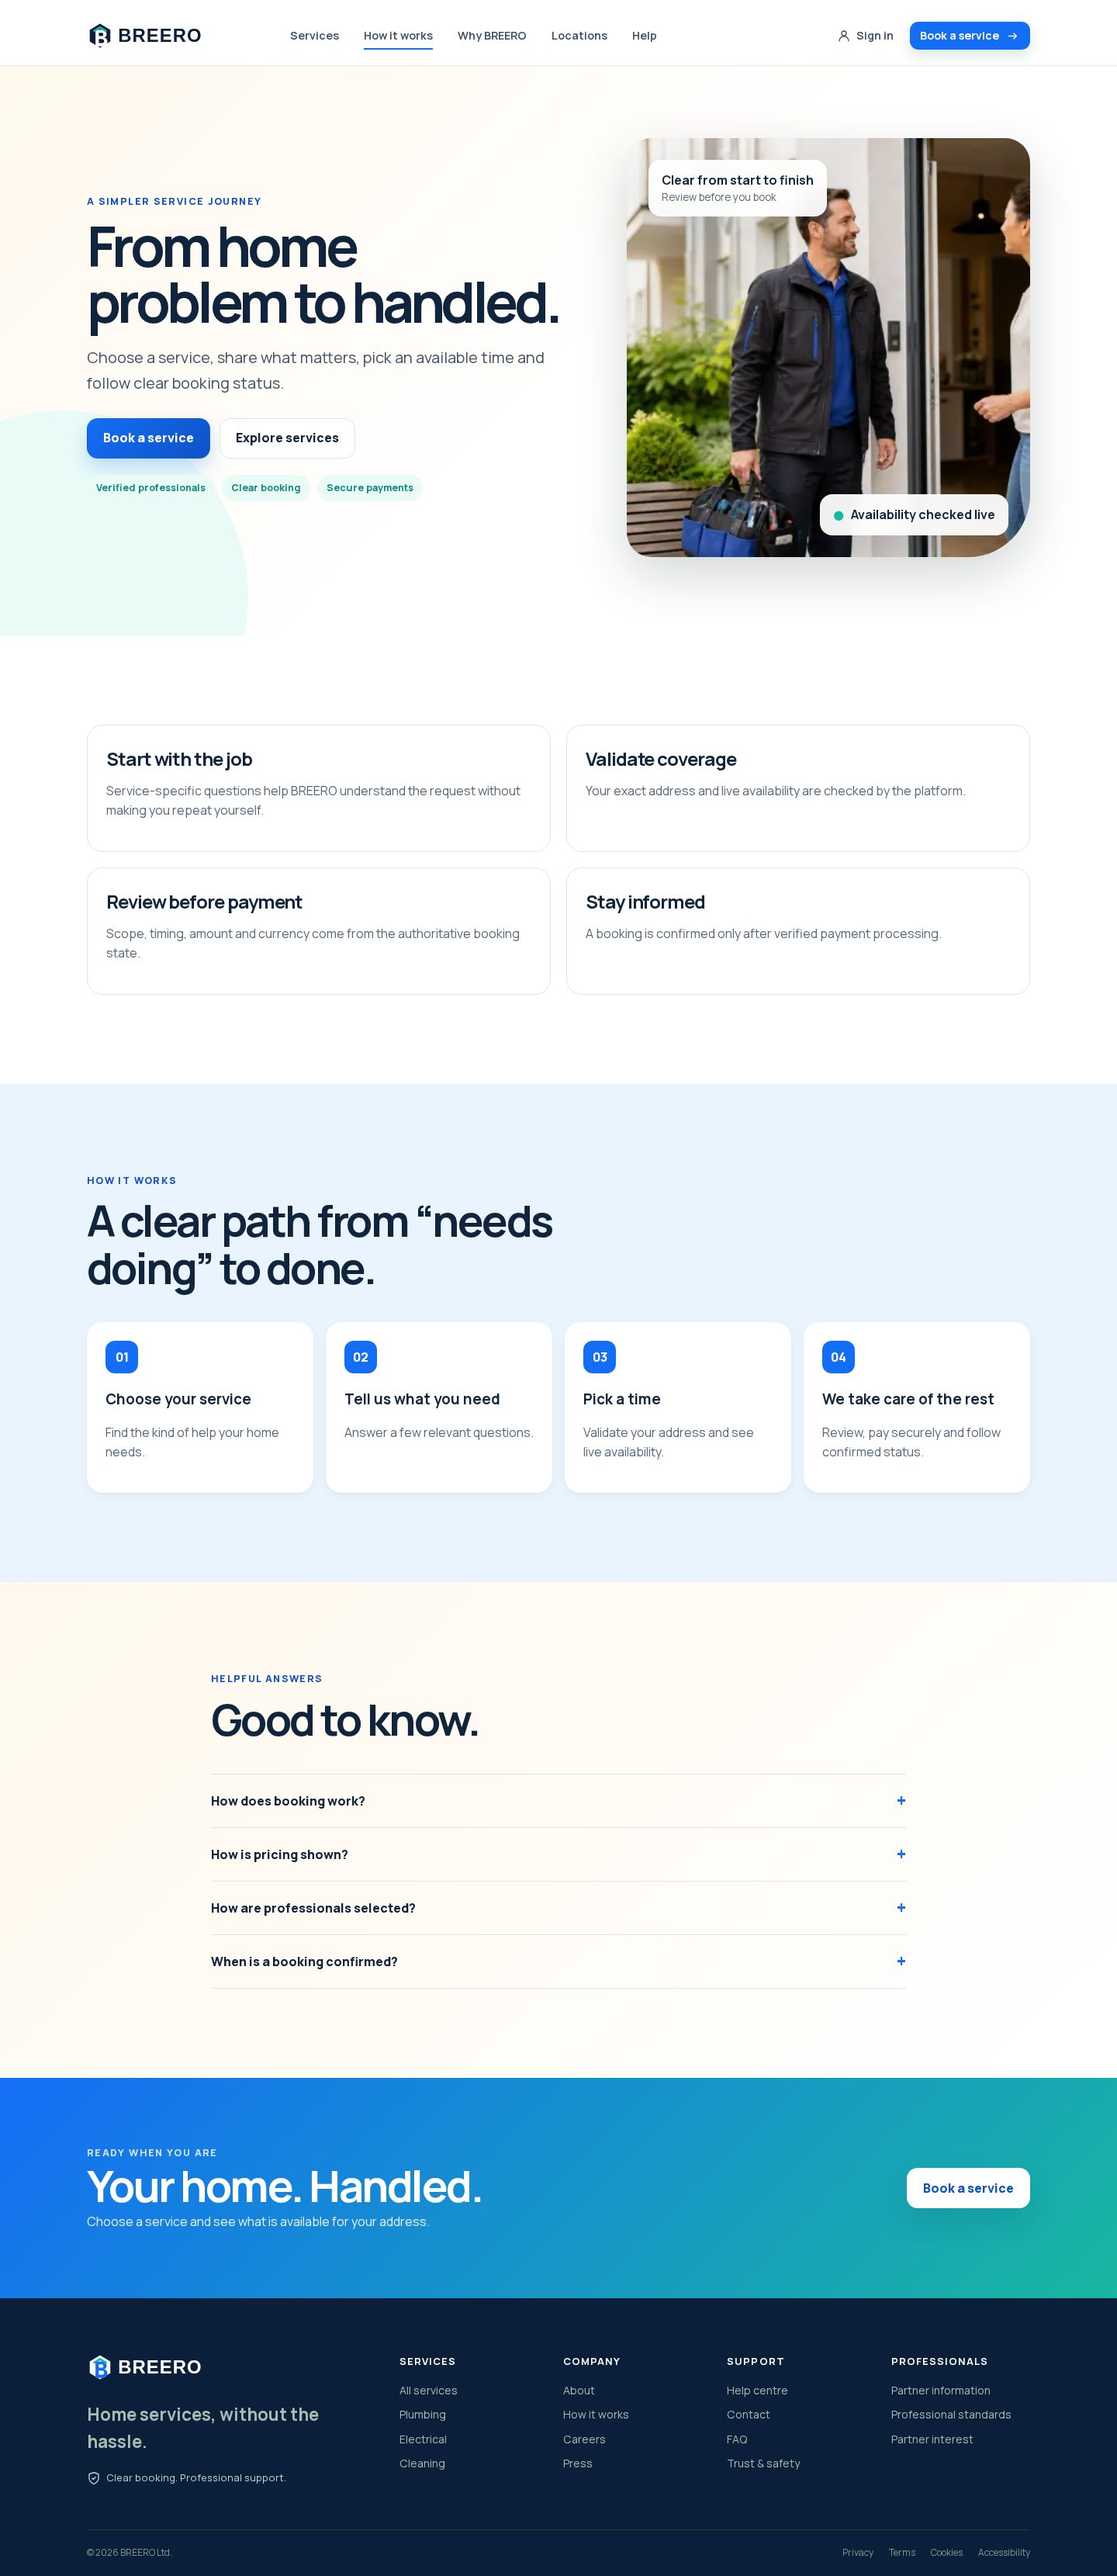
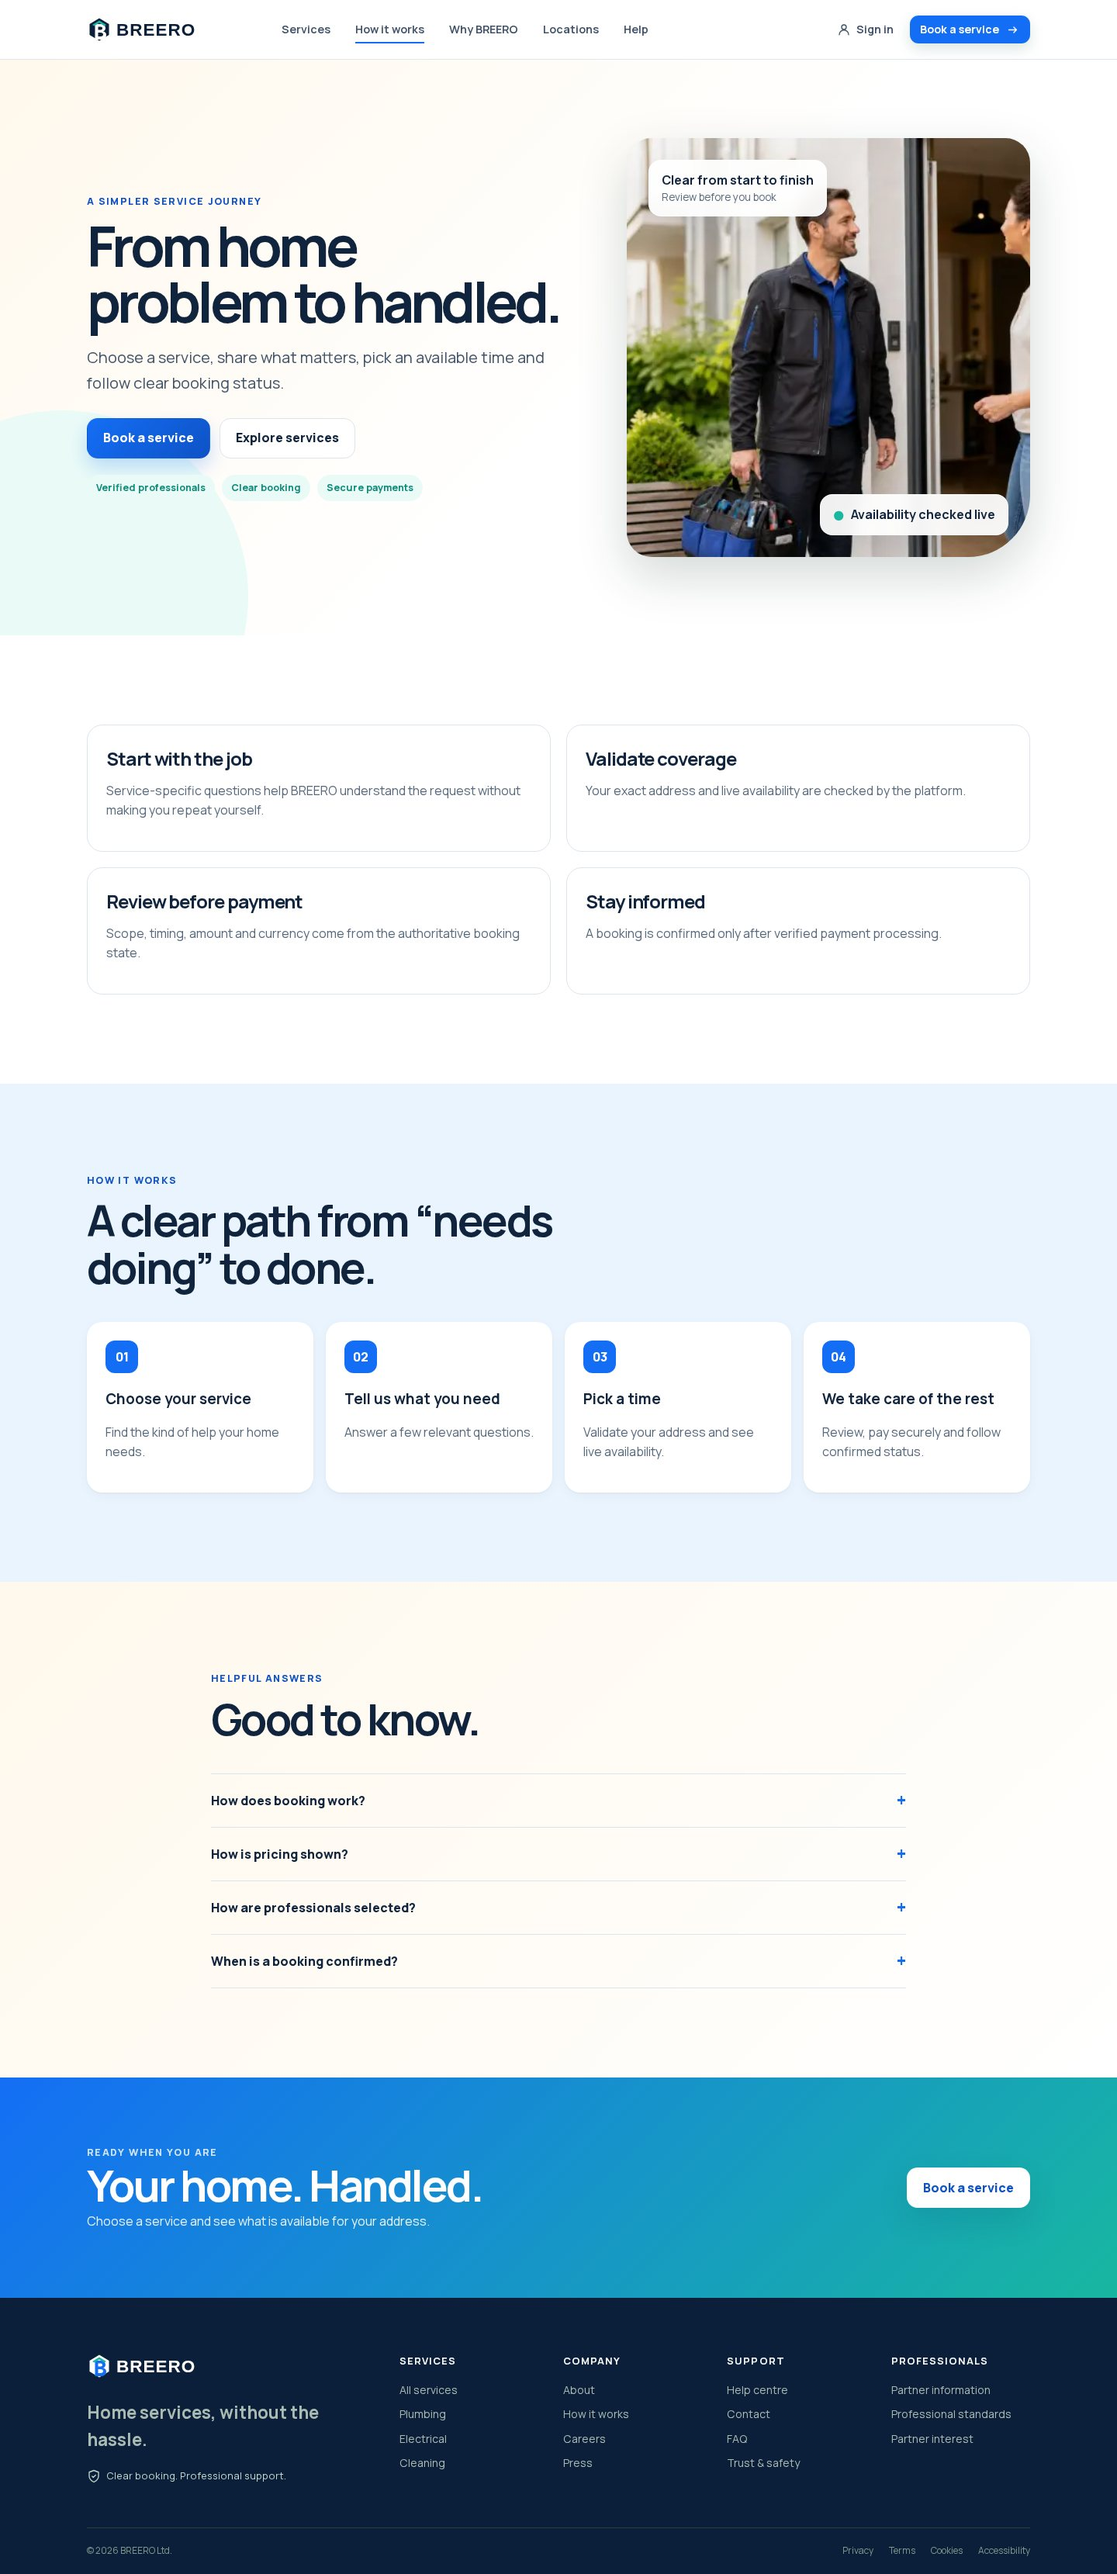
Certify BREERO premium public website

diff --git a/apps/web/app/brand.css b/apps/web/app/brand.css
@@ -13,4 +13,5 @@
 .mk-section--mint{background:var(--br-mint)}.mk-section--navy{color:#fff;background:var(--br-navy)}.mk-section--navy .mk-eyebrow{color:#8ee5d8}.mk-section--navy .mk-lead{color:#dce8f4}.mk-image-panel--landscape{min-height:390px}.mk-discovery{padding-block:2rem;background:var(--br-navy);color:#fff}.mk-discovery__inner{display:grid;grid-template-columns:minmax(250px,.75fr) 1.5fr;align-items:center;gap:3rem}.mk-discovery h2{margin:.25rem 0 .7rem;font-size:clamp(1.7rem,3vw,2.5rem);letter-spacing:-.035em}.mk-discovery p{max-width:34rem;margin-bottom:0;color:#dce8f4}.mk-discovery .mk-eyebrow{color:#8ee5d8}.mk-discovery__links{display:grid;grid-template-columns:repeat(2,minmax(0,1fr));gap:.65rem}.mk-discovery__links a{min-height:50px;display:flex;align-items:center;justify-content:space-between;border:1px solid rgb(255 255 255/.16);border-radius:14px;padding:.65rem 1rem;background:rgb(255 255 255/.07);color:#fff;font-weight:750;text-decoration:none}.mk-discovery__links a:hover{border-color:#8ee5d8;background:rgb(255 255 255/.12)}.mk-discovery__links .mk-discovery__all{color:var(--br-navy);background:var(--br-yellow)}.mk-three figure{margin:0}.mk-three blockquote{margin:0 0 1rem;font-size:1.15rem}.mk-three figcaption{color:var(--br-muted);font-size:.85rem}
 @media(max-width:767px){.mk-discovery__inner{grid-template-columns:1fr;gap:1.5rem}.mk-discovery__links{grid-template-columns:1fr}.mk-image-panel--landscape{min-height:310px}}
 @media(prefers-reduced-motion:reduce){.mk-service-card,.mk-service-card img,.mk-button{transition:none!important}}
+.brand-logo img{width:165px;height:32px}
 .mk-legal{margin-top:2.5rem}.mk-legal h2{margin-top:2rem;font-size:1.5rem}.mk-legal p{color:var(--br-muted)}.brand-swatches{display:grid;grid-template-columns:repeat(auto-fit,minmax(140px,1fr));gap:1rem;margin-block:2rem}.brand-swatches>div{min-height:110px;display:flex;align-items:flex-end;border:1px solid var(--br-border);border-radius:16px;padding:1rem;box-shadow:var(--br-shadow-sm)}.brand-swatches span{border-radius:6px;padding:.2rem .4rem;background:#fff;color:var(--br-ink);font-size:.75rem;font-weight:800}

diff --git a/apps/web/app/account/account.css b/apps/web/app/account/account.css
@@ -8,4 +8,5 @@
 .account-nav > p { color: var(--br-ink-soft); }
 .account-auth-page{min-height:72vh;overflow:hidden;background:#f6f6f1}.account-back{display:inline-block;margin-bottom:1rem;color:var(--br-brand);font-size:.82rem;font-weight:750;text-decoration:none}.detail-subheading{margin-top:1.5rem!important}.quote-detail-terms{margin-top:1.25rem}.account-loading-grid{margin-top:2rem}.address-note{margin-top:1rem}.payment-summary .safe-payment-note{align-items:flex-start}.payment-summary .safe-payment-note p{margin:.25rem 0 0}.br-table .br-price{font-size:.9rem}
 .account-page-header .br-button span{color:inherit;font-size:inherit;letter-spacing:normal;text-transform:none}
+.account-page-header>div>span,.account-eyebrow{color:var(--br-brand-dark)}
 .account-nav nav button{min-height:48px;border:0;border-radius:.7rem;padding:0 .8rem;color:var(--br-ink-soft);background:transparent;font:inherit;font-size:.88rem;font-weight:700;text-align:left;cursor:pointer}.account-nav nav button:hover{background:white}

diff --git a/apps/web/tests/e2e/accessibility.spec.ts b/apps/web/tests/e2e/accessibility.spec.ts
@@ -1,9 +1,10 @@
 import AxeBuilder from "@axe-core/playwright";
 import { expect, test } from "@playwright/test";
 
-for (const path of ["/", "/services", "/services/plumbing", "/how-it-works", "/booking", "/login", "/account", "/about", "/contact"]) {
+for (const path of ["/", "/services", "/services/plumbing", "/how-it-works", "/book", "/booking", "/login", "/account", "/about", "/contact", "/partners"]) {
   test(`${path} has no serious automated accessibility violations`, async ({ page }) => {
     await page.goto(path);
+    if (path === "/book") await page.waitForURL("**/booking");
     await expect(page.locator("main")).toBeVisible();
     const result = await new AxeBuilder({ page }).withTags(["wcag2a", "wcag2aa"]).analyze();
     expect(result.violations.filter((item) => ["serious", "critical"].includes(item.impact ?? ""))).toEqual([]);

diff --git a/docs/brand/acceptance-report.md b/docs/brand/acceptance-report.md
@@ -11,24 +11,34 @@ Recorded 2026-08-12 from `codex/premium-public-web-brand`, based on application 
 - OpenAPI frontend contract check: PASS, 26 required paths and payment purposes.
 - Production build: PASS, 63 static/dynamic outputs; public marketing first-load JS 111 kB.
 - Marketing manifest: PASS, 32 assets, 60 validated internal links across 46 static routes, and no placeholder-portal links.
-- Chromium/Firefox/WebKit complete booking, account, responsive, smoke and axe suite: PASS, 108/108.
+- Chromium/Firefox/WebKit complete booking, account, responsive, smoke and axe suite: PASS, 114/114.
 - Widths: PASS at 375, 430, 768, 1024, 1280, 1440 and 1920; visual screenshots also at 375,
   768 and 1440.
-- Axe: no serious/critical findings on home, services, plumbing detail, how it works, booking,
-  login, account, about and contact in the final focused matrix.
+- Axe: no serious/critical findings on home, services, plumbing detail, how it works, `/book`,
+  booking, login, account, about, contact and partners in the final matrix.
 - Image-path, internal-link and forbidden portal-link validation: PASS.
 - Screenshot set: 30 files covering the 10 acceptance routes at three widths; manually reviewed for hierarchy, crop, typography, CTA priority, navigation and footer consistency.
+- Live route audit: PASS for all 37 intended public routes, with no broken loaded images or
+  BREERO console/page errors in the Chromium production-build audit.
 - Production build reports 102 kB shared first-load JS and 111 kB for marketing routes. These are
   build metrics, not staging Core Web Vitals.
+- Representative local Lighthouse results (mobile simulation against the production build):
+  home 61/100/79/100 with LCP 5.3 s and CLS 0.368; services 97/100/79/100 with LCP 2.6 s and
+  CLS 0; plumbing 99/100/79/100 with LCP 2.1 s and CLS 0; booking 89/100/79/100 with LCP
+  3.3 s and CLS 0.102. Scores are Performance/Accessibility/Best Practices/SEO and are not
+  staging Core Web Vitals.
 
 ## Limitations
 
-- Lighthouse was not installed in the accepted toolchain and was not downloaded onto the host at
-  100% disk utilization. No Lighthouse score is claimed.
 - Generated photos are drafts, not real BREERO staff/customer evidence. Final licensed or consented
-  assets should replace the same filenames.
-- Six marketing services map to the current booking catalog. Other service pages are informational
+  assets should replace the same filenames. The draft set is visually consistent but intentionally
+  reuses a small number of compositions across the 32 manifest slots.
+- Five marketing services map to the current booking catalog. Other service pages are informational
   and say availability is unconfirmed.
+- Local Lighthouse performance identifies follow-up work on homepage layout stability/LCP and the
+  booking entry LCP/CLS; no score is represented as a production measurement.
+- The certification host remains at 100% reported filesystem utilization despite gigabytes of
+  available blocks, so capacity remains an operational risk outside this public-site branch.
 - No city location page or campaign is published until operations/content approval.
 - Legal copy is a structured draft requiring jurisdiction-specific legal approval.
 - No customer, partner, operations or admin portal was created.
